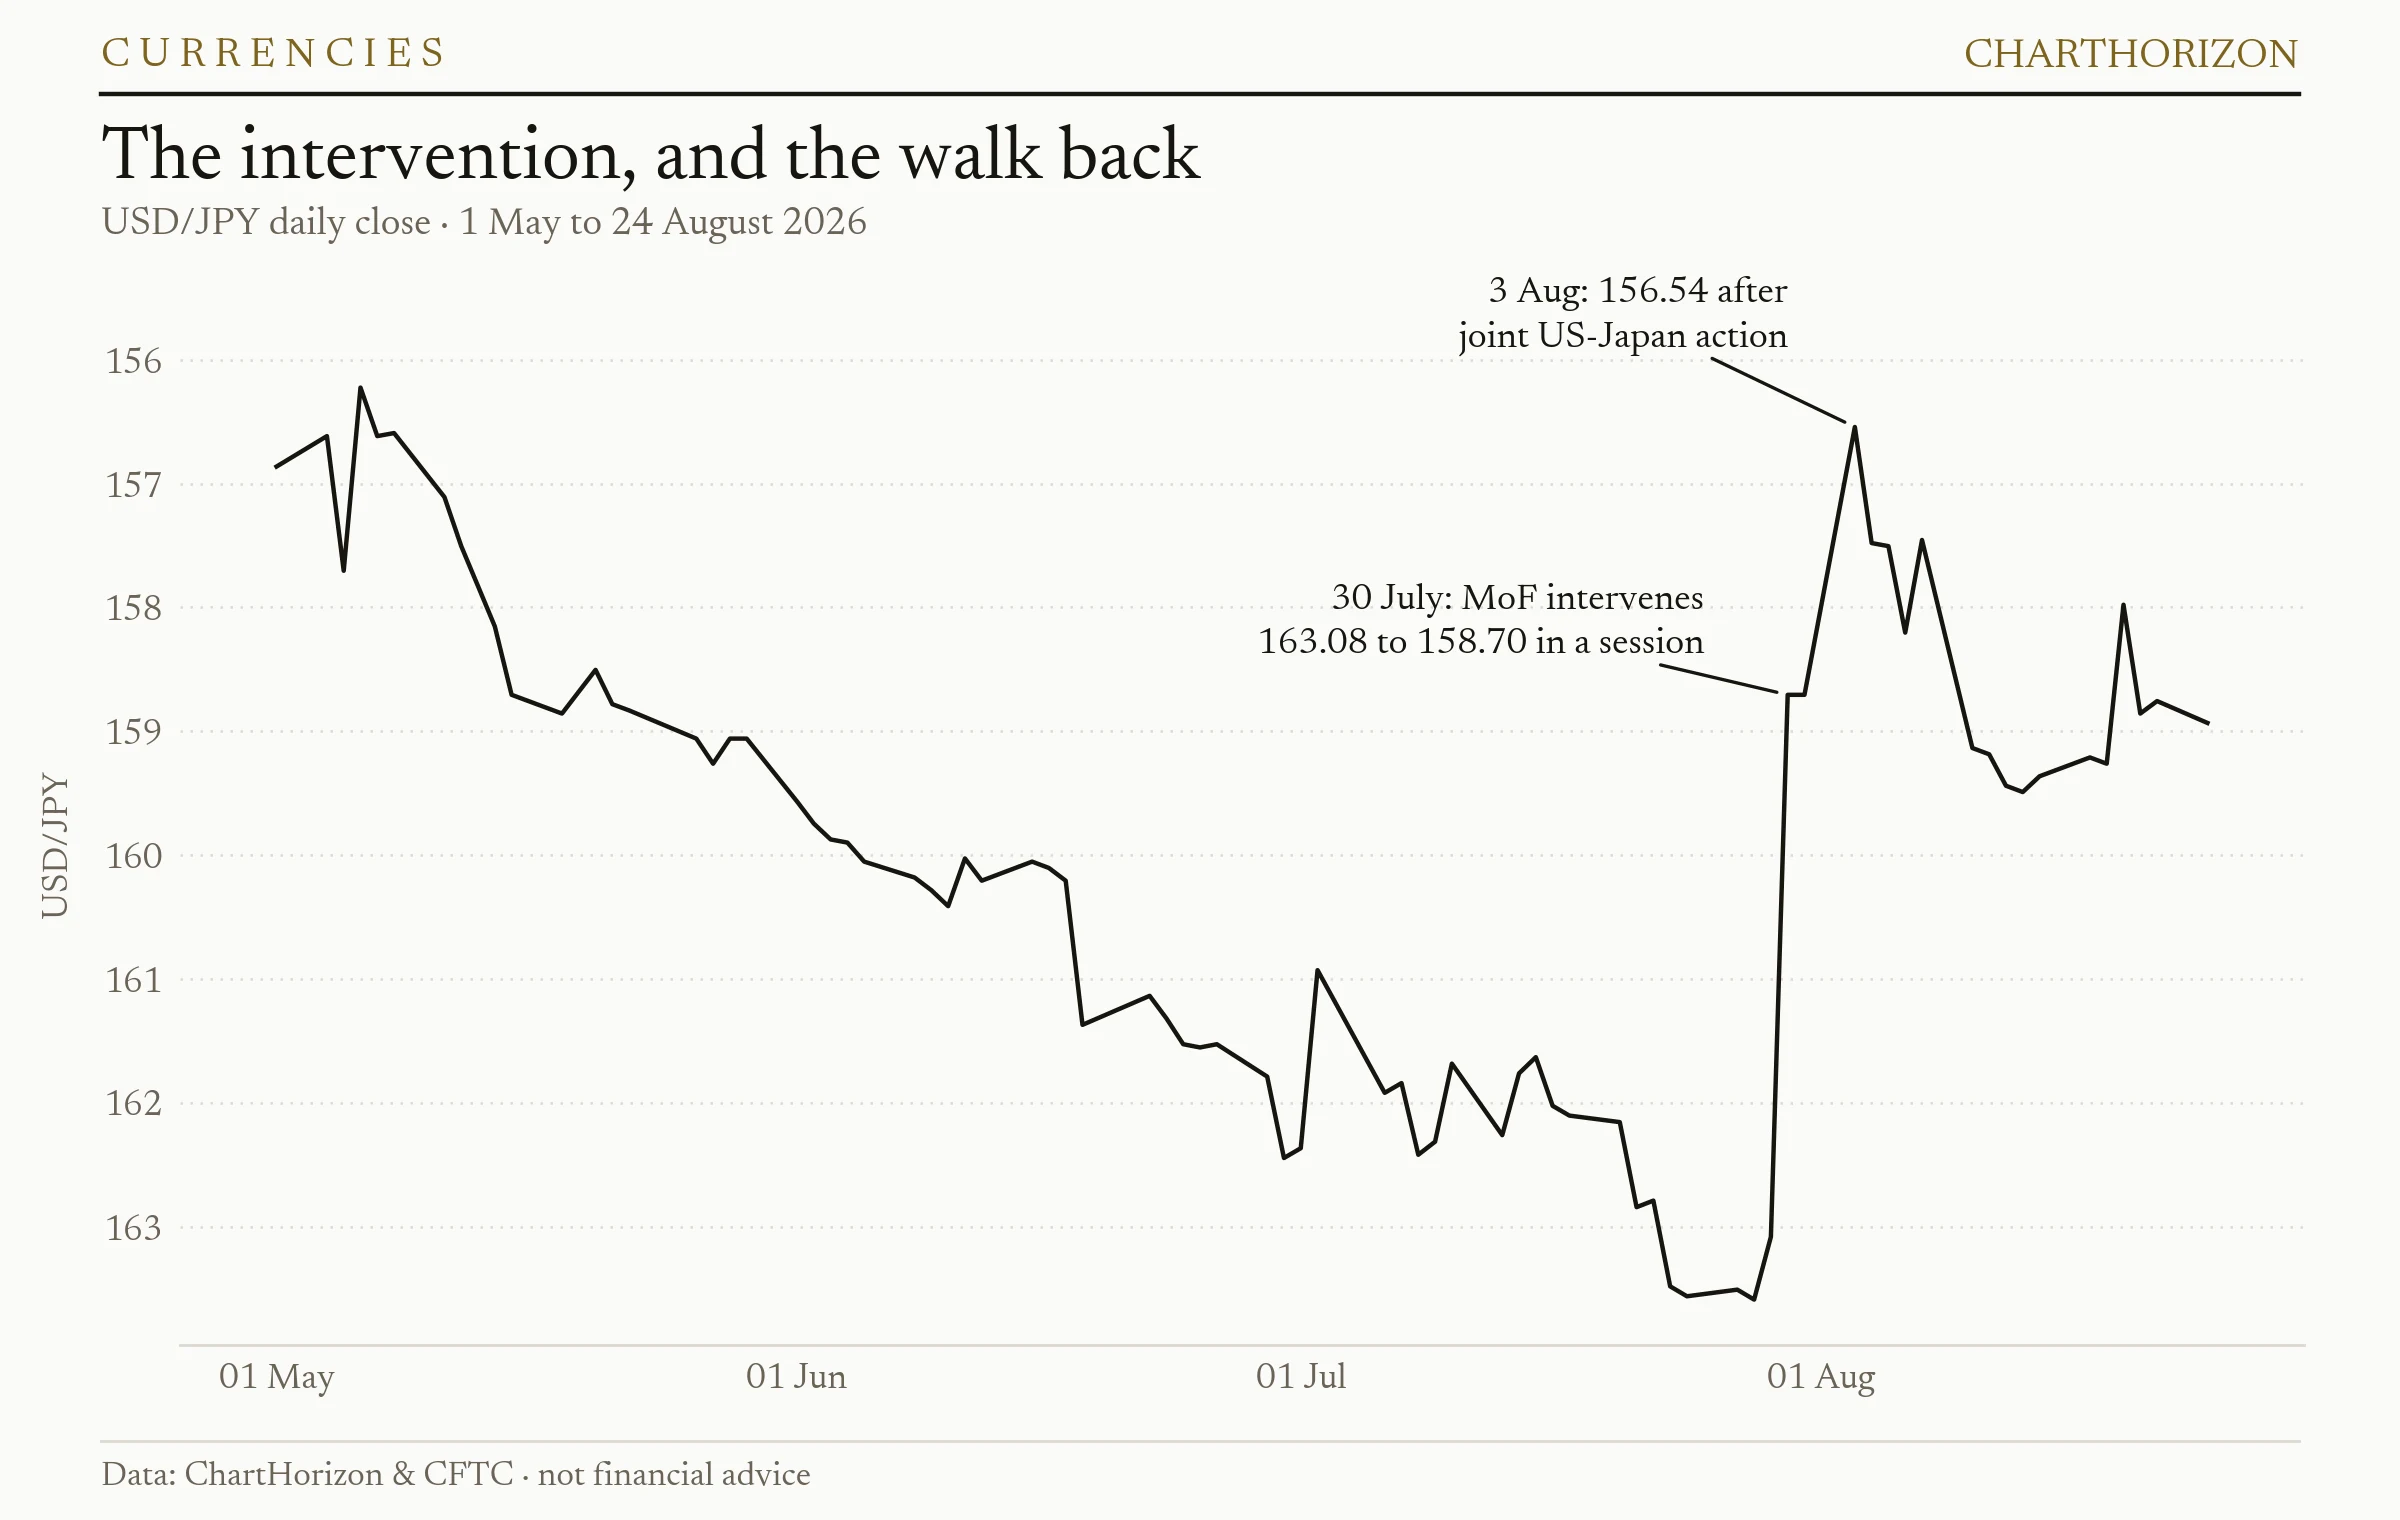
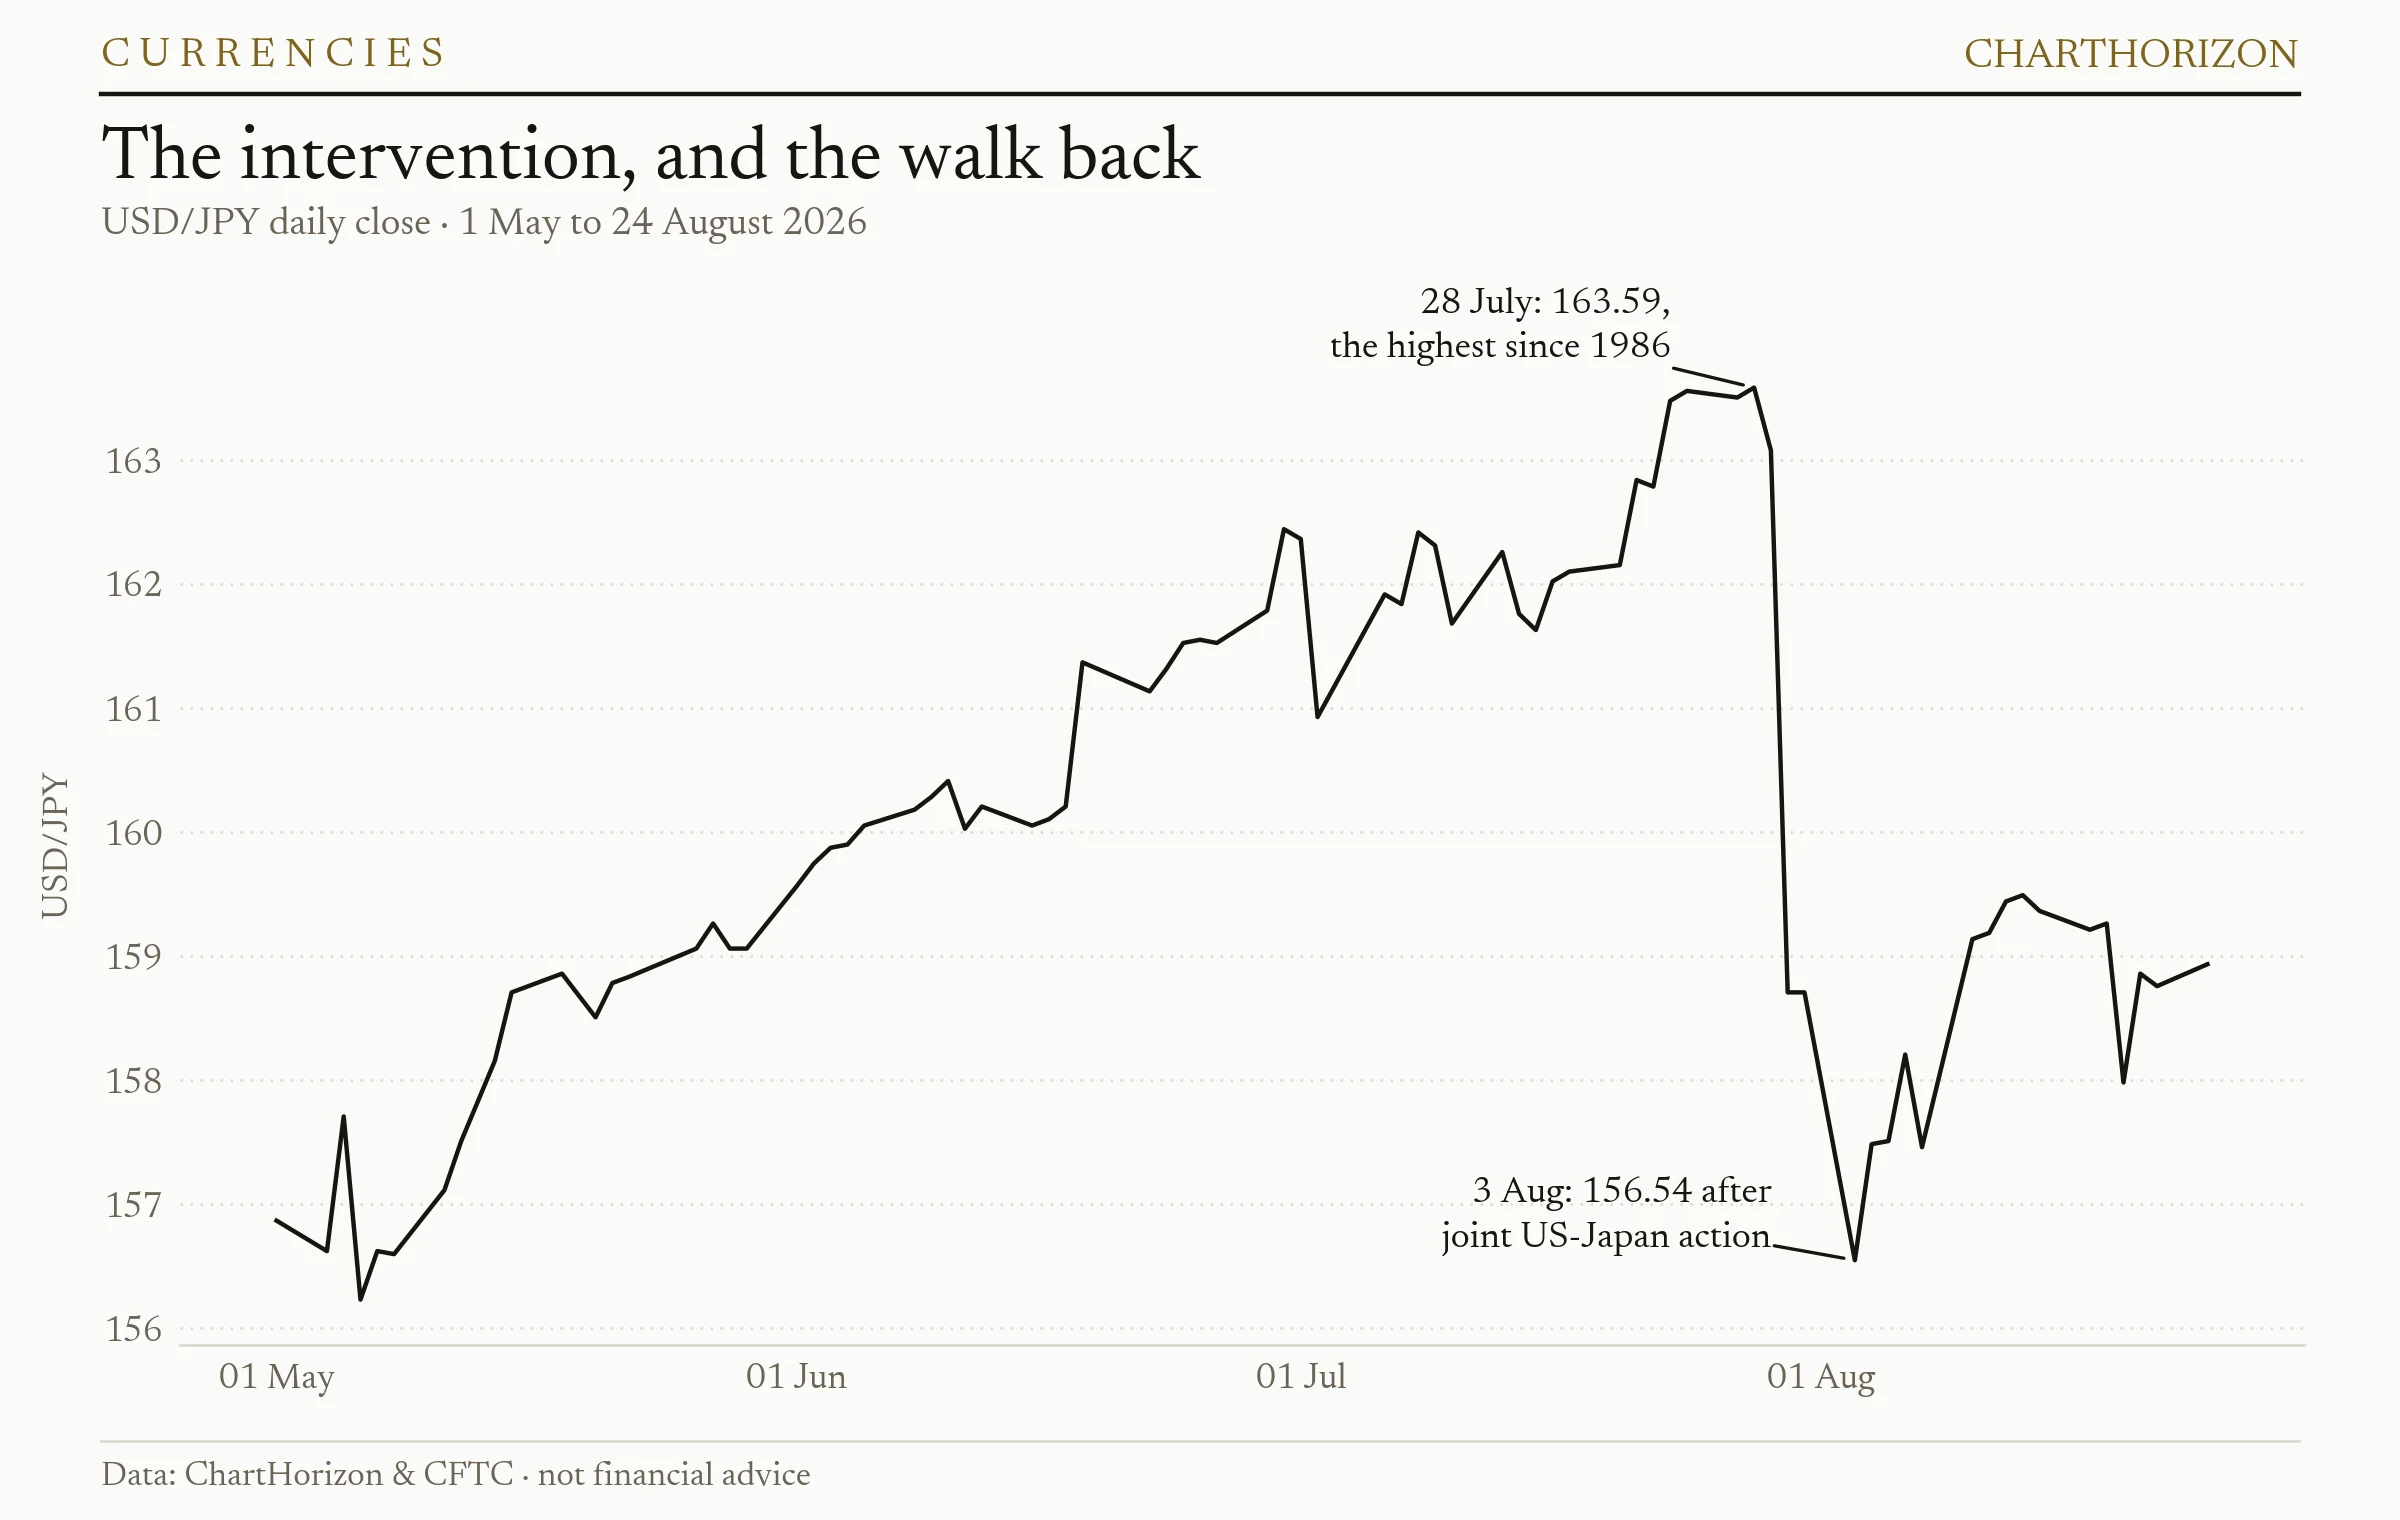
charts: --invert must not flip the y-axis, and redraw the yen chart
--invert did two jobs: compute 1/close (which is what the docstring promises, and
what FX needs, since the archive stores USD-based) and additionally reverse the
y-axis. Only the first was documented. The result was every FX line drawn upside
down — USD/JPY at 163 sat below USD/JPY at 156. multi's --invert-key never
flipped, so the two paths disagreed; --invert-key was the correct one.

The reversed presentation is now --flip-axis, opt-in and separate. Existing
committed cards are untouched; regenerating an old FX line with --invert alone
will now come out the right way up, which is the point.

Redraws the Fifty Funds yen chart and its title card accordingly, moves the two
marks into clear space, and corrects the figure's alt text.

diff --git a/docs/post_charts.py b/docs/post_charts.py
@@ -36,6 +36,11 @@ DATA NOTES THAT WILL BITE
       spec series in this archive. Say "commercial" or "producer/merchant" (cot_label
       tells you which) and never imply a spec/commercial divergence from this table.
     · FX is stored USD-based and inverted: USD/JPY = 1/jpy_fx.close. Use --invert.
+      --invert changes the VALUES only, never the axis direction, so USD/JPY rises
+      up the page like any other price. --flip-axis is the separate opt-in for the
+      reversed presentation (a falling line = the quoted currency strengthening).
+      The two were one flag until 2026-08-25, which silently drew every FX line
+      upside down; --invert-key in `multi` never flipped, and was already right.
     · The continuous price series ROLLS. A single-session gap of several per cent
       across an entire complex on one date is a roll, not a move. Check before
       annotating a daily change.
@@ -240,7 +245,7 @@ def draw_cot(a):
     bot = fig.add_axes([0.075, 0.105, 0.885, 0.305])
 
     top.plot(px, py, color=INK, lw=1.5 * SS, solid_joinstyle="round")
-    if a.invert:
+    if a.flip_axis:
         top.invert_yaxis()
     top.set_ylabel(a.price_label, fontsize=13 * SS, labelpad=10 * SS)
     style(top)
@@ -274,7 +279,7 @@ def draw_line(a):
     fig = frame(H1, a.kicker, a.title, a.sub, a.note)
     ax = fig.add_axes([0.075, 0.115, 0.885, 0.66])
     ax.plot(px, py, color=INK, lw=1.6 * SS, solid_joinstyle="round")
-    if a.invert:
+    if a.flip_axis:
         ax.invert_yaxis()
     if a.price_label:
         ax.set_ylabel(a.price_label, fontsize=13 * SS, labelpad=10 * SS)
@@ -298,7 +303,7 @@ def draw_line(a):
         bare = plt.figure(figsize=(1280 * SS / DPI, 720 * SS / DPI), dpi=DPI)
         b = bare.add_axes([0.05, 1 - 0.54, 0.865, 0.54 - 0.105])
         b.plot(px, py, color=src_colour, lw=3.0 * SS, solid_joinstyle="round")
-        if a.invert:
+        if a.flip_axis:
             b.invert_yaxis()
         b.set_axis_off()
         bare.savefig(src, dpi=DPI, facecolor=PAPER)
@@ -358,6 +363,8 @@ def main():
         s.add_argument("--since")
         s.add_argument("--until")
         s.add_argument("--invert", action="store_true")
+        s.add_argument("--flip-axis", action="store_true",
+                       help="reverse the y-axis; separate from --invert on purpose")
         s.add_argument("--png", action="store_true")
         s.add_argument("--mark", action="append")
         if kind == "line":

diff --git a/_posts/2026-08-25-fifty-funds.md b/_posts/2026-08-25-fifty-funds.md
@@ -22,7 +22,7 @@ had started the week.
 
 <figure class="board">
   <img src="{{ page.cards }}/usdjpy.webp" width="1200" height="760" loading="lazy"
-       alt="USD/JPY daily close from 1 May to 24 August 2026 on an inverted axis, falling steadily from 157 to 163.59 by late July, spiking to 156.54 on the intervention, then drifting back to 158.93">
+       alt="USD/JPY daily close from 1 May to 24 August 2026, climbing steadily from 157 to 163.59 by 28 July, dropping to 156.54 on the intervention of 30 July and 3 August, then recovering to 158.93">
   <figcaption>USD/JPY · daily close · 1 May – 24 August 2026 · ChartHorizon</figcaption>
 </figure>
 
